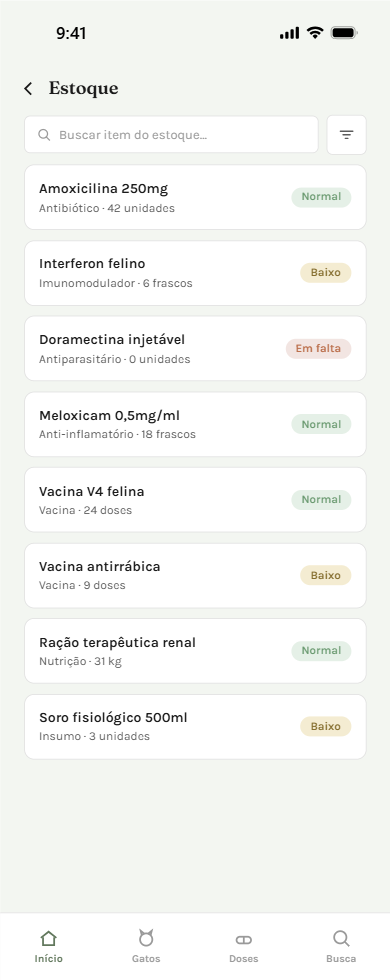
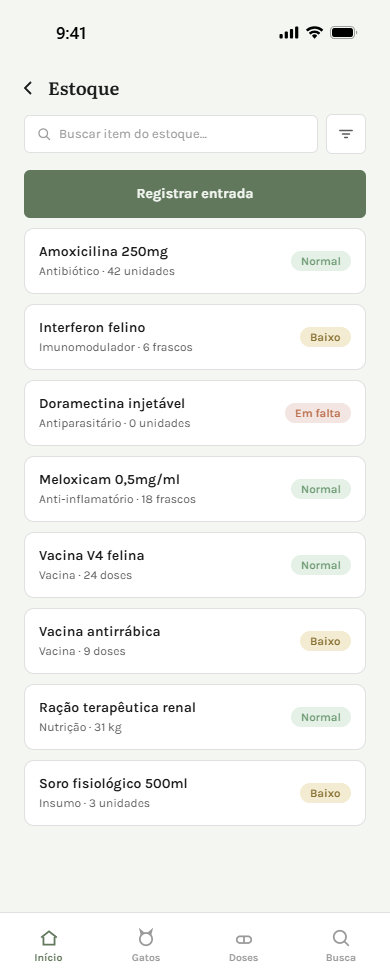
[docs] Protótipos: histórico de transferência de sala e entrada de estoque mobile

diff --git a/documentos/03-Projeto de Interface.md b/documentos/03-Projeto de Interface.md
@@ -236,6 +236,14 @@ Sem conexão, a tela avisa que o envio depende de internet e mantém o botão de
 
 ![Estoque — Mobile](img/telas/mobile/12-estoque.png)
 
+### Registrar Entrada de Estoque — Mobile
+
+![Registrar Entrada de Estoque — Mobile](img/telas/mobile/29-registrar-entrada-estoque.png)
+
+### Registrar Entrada de Estoque (Novo Medicamento) — Mobile
+
+![Registrar Entrada de Estoque, Novo Medicamento — Mobile](img/telas/mobile/30-registrar-entrada-estoque-novo-medicamento.png)
+
 ### Vacinas — Mobile
 
 ![Vacinas — Mobile](img/telas/mobile/13-vacinas.png)
